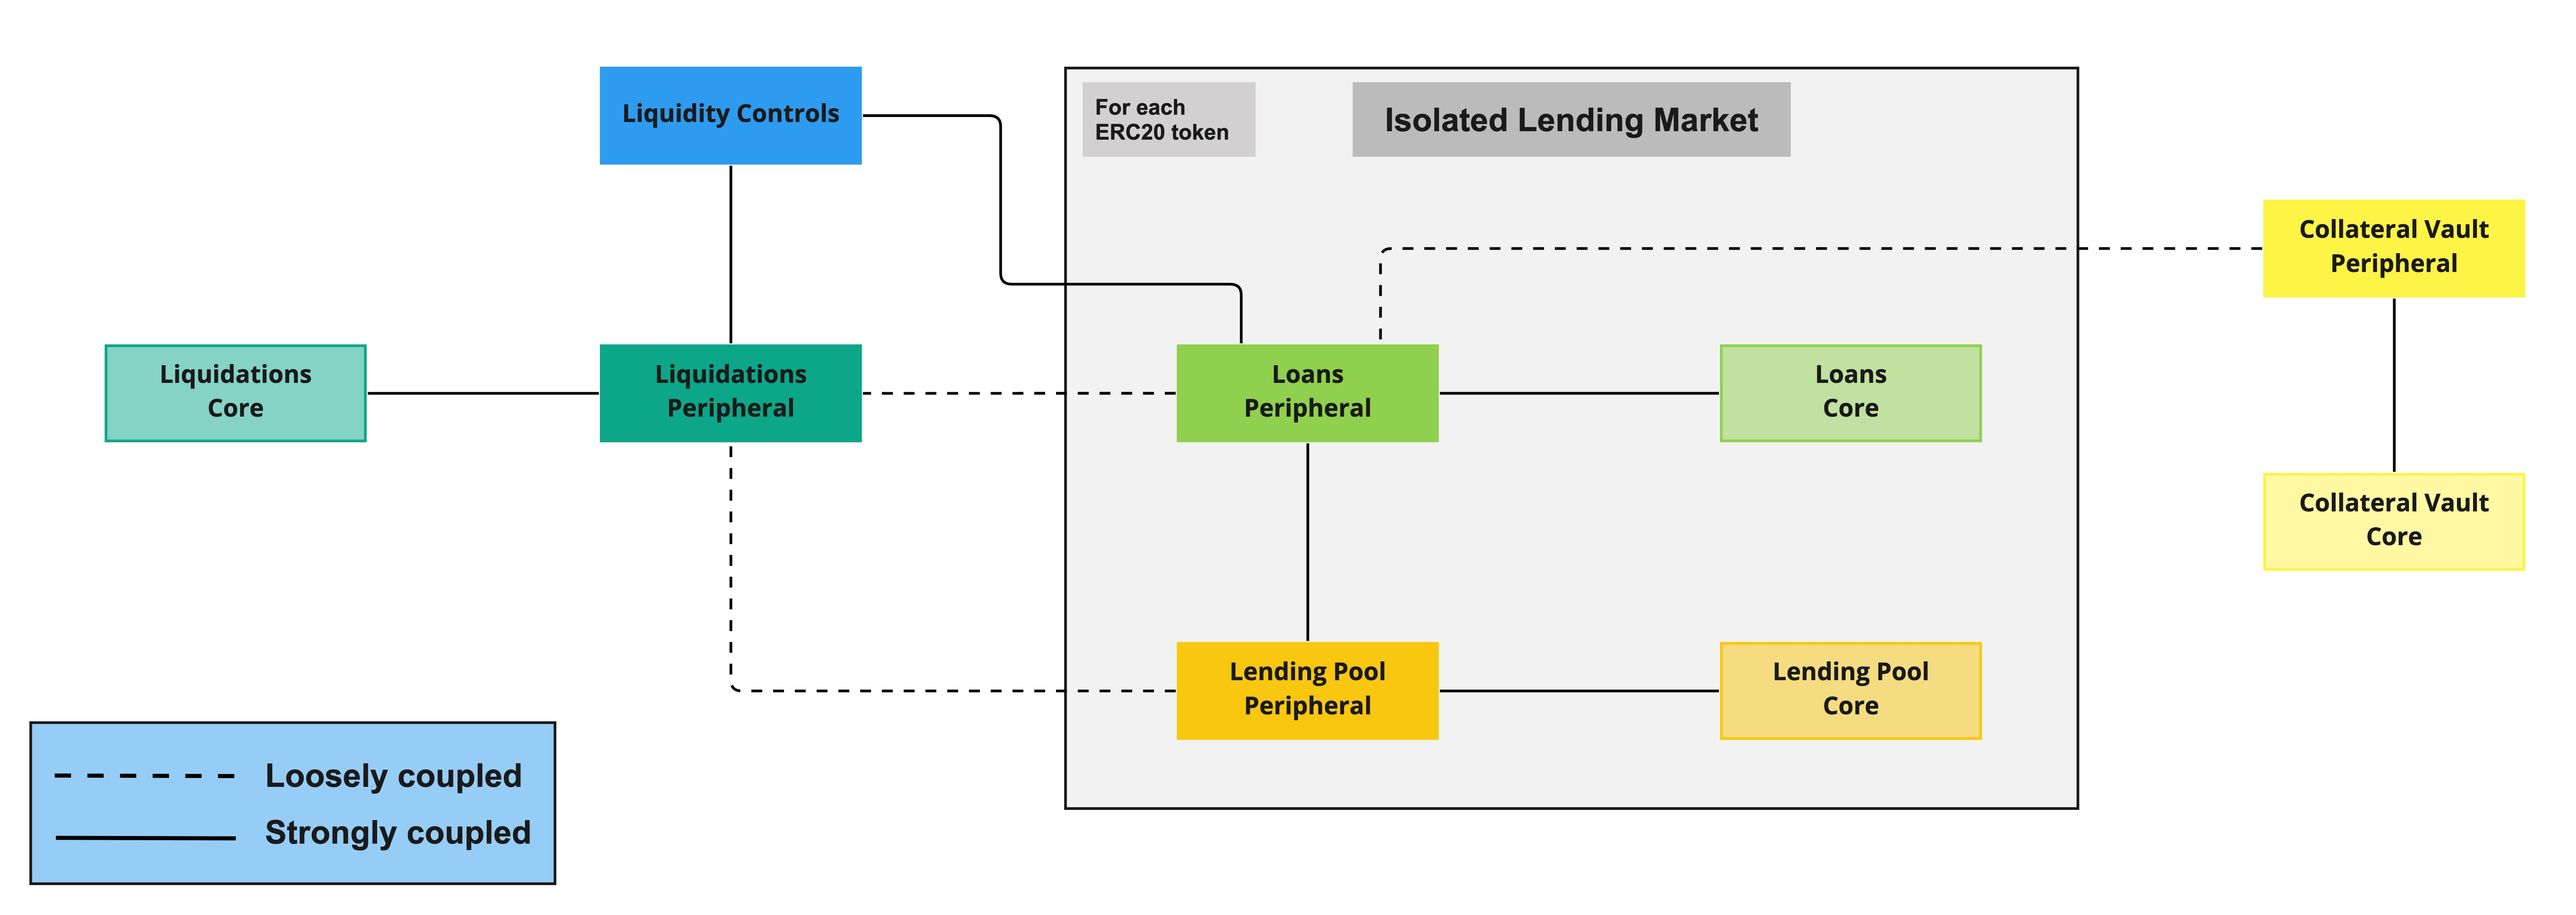
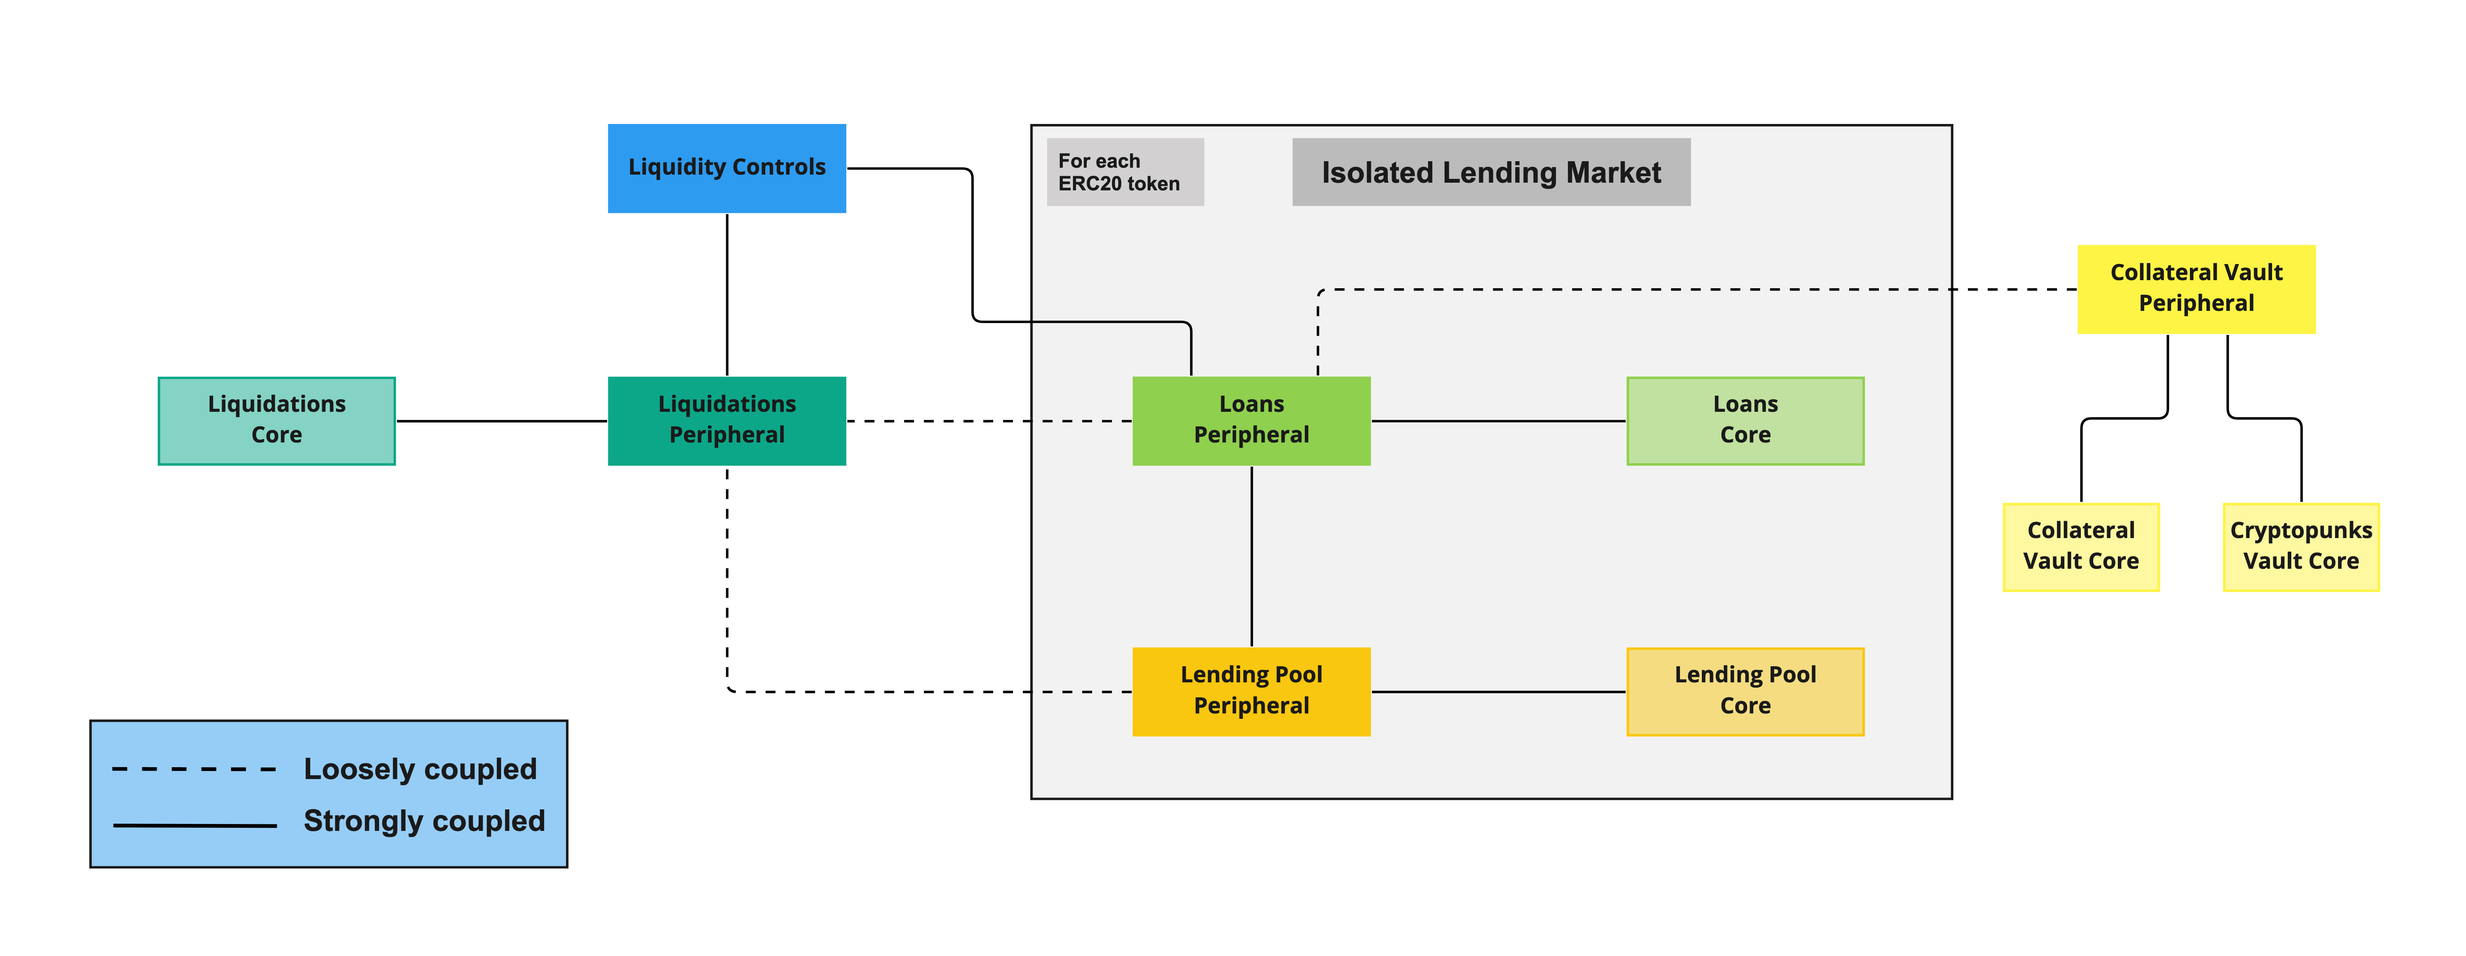
update readme and diagrams

diff --git a/docs/README.md b/docs/README.md
@@ -6,10 +6,11 @@ The protocol part of the Zharta offering comprises the smart contracts that gove
 
 These off-chain components provide input for the on-chain protocol as admin functionalities.
 
+
 # Overview
-| **Version** | **Language** | **Reference implementation** |
-|---|---|---|
-| V1 | Vyper 0.3.6 | https://gitlab.com/z106/protocol-v1 |
+| **Version** | **Language** | **Reference implementation**          |
+| ---         | ---          | ---                                   |
+| V1          | Vyper 0.3.6  | https://github.com/Zharta/protocol-v1 |
 
 Zharta V1 is a binary smart contract system comprised of many smart contracts. Each domain is comprised of two smart contracts, the Core and the Periphery.
 
@@ -19,16 +20,22 @@ The Periphery contracts define the protocol logic and are the gateway to interac
 
 The Periphery contracts are more easily changed since they hold no storage variables, they only hold protocol logic. Since the domain storage exists in the domain-specific Core contract, it is easier to deploy a new domain-specific Periphery contract and point it to the Core contract and vice-versa.
 
+This architecture is mentioned as [data separation](https://ethereum.org/en/developers/docs/smart-contracts/upgrading/#data-separation) in Ethereum Docs, and has the purpose of easying the smart contracts upgrades, allowing faster bug fixing (including security issues) and business logic iterations. Even if the long term is towards contracts immutability, is important at this stage to allow upgradability.
+
 Zharta V1 is divided into the following domains:
-* Loans
-* Lending Pool (LP)
-* Collateral Vault (CV)
-* Liquidations
-* Liquidity Controls (LC)
+
+| **Domain**              | **Logic**                 | **Data**                                   |
+| ---                     | ---                       | ---                                        |
+| Loans                   | Loans                     | LoansCore                                  |
+| Lending Pool (LP)       | LendingPoolPeripheral     | LendingPoolCore                            |
+| Collateral Vault (CV)   | CollateralVaultPeripheral | CollateralVaultCore / CryptoPunksVaultCore |
+| Liquidations            | LiquidationsPeripheral    | LiquidationsCore                           |
+| Liquidity Controls (LC) | LiquidityControls         |                                            |
+
 
 # General considerations
 
-Zharta will launch the V1 of the protocol with the following restrictions:
+Zharta launched the V1 of the protocol with the following restrictions:
 * maturity-based loans with at most 30 days
 * one single lending pool of WETH
 * no liquidations before a loan's maturity date
@@ -47,24 +54,25 @@ As for the CV, Liquidations and Liquidity Controls domains, they are not specifi
 
 The liquidity controls contract exists as the first and simple layer of automated risk management. The table below outlines the current implemented controls.
 
-| **Name** | **Target** | **Current Value** | **Description** |
-|---|---|---|---|
-| Loan-to-deposit ratio | Lenders | 70% | This represents the maximum utilisation of pools and when set to less than 100%, it allows for a buffer for withdrawals by lenders. |
-|  | Borrowers | 70% | This represents the maximum utilisation of pools and when set to less than 100%, it allows for less funds available for loans taken by borrowers. |
-| Limit per pool | Lenders | 15% | This represents the maximum share that a single lender can take from a lending pool. |
-|  | Borrowers | 15% | This represents the maximum share that a single borrower can represent from the total amount of borrowed funds. |
-| Diversification of collections | Lenders | _NA_ | _NA_ |
-|  | Borrowers | 50% | The represents the maximum share that a single collection can represent from the total amount of borrowed funds. |
-| Funds withdrawals | Lenders | 7 days lock period | This represents the lock period applicable for deposits in lending pools, i.e. for each new deposit, it can’t be withdrawn before the lock period finishes. If the lender already has an ongoing lock period, a new deposit won’t extend the lock period. |
-|  | Borrowers | _NA_ | _NA_ |
+| **Name**                       | **Target** | **Current Value**  | **Description**                                                                                                                                                                                                                                             |
+| ---                            | ---        | ---                | ---                                                                                                                                                                                                                                                         |
+| Loan-to-deposit ratio          | Lenders    | 70%                | This represents the maximum utilisation of pools and when set to less than 100%, it allows for a buffer for withdrawals by lenders.                                                                                                                         |
+|                                | Borrowers  | 70%                | This represents the maximum utilisation of pools and when set to less than 100%, it allows for less funds available for loans taken by borrowers.                                                                                                           |
+| Limit per pool                 | Lenders    | 15%                | This represents the maximum share that a single lender can take from a lending pool.                                                                                                                                                                        |
+|                                | Borrowers  | 15%                | This represents the maximum share that a single borrower can represent from the total amount of borrowed funds.                                                                                                                                             |
+| Diversification of collections | Lenders    | _NA_               | _NA_                                                                                                                                                                                                                                                        |
+|                                | Borrowers  | 50%                | The represents the maximum share that a single collection can represent from the total amount of borrowed funds.                                                                                                                                            |
+| Funds withdrawals              | Lenders    | 7 days lock period | This represents the lock period applicable for deposits in lending pools, i.e. for each new deposit, it can’t be withdrawn before the lock period finishes. If the lender already has an ongoing lock period, a new deposit won’t extend the lock period. |
+|                                | Borrowers  | _NA_               | _NA_                                                                                                                                                                                                                                                        |
 
 ## Loan creation flow - a mix between on-chain and off-chain processes
 
 The loan creation flow has two steps:
-1. The loan is created on-chain by the borrower
+1. Zharta's API pre-validation
     - the borrower should call Zharta's APIs beforehand to get the conditions for the loan given the NFTs chosen to be used as collateral
+    - the Zharta's APIs also validate the loan request and sign a ERC712 message
     - Zharta's portal simplifies this for now
-2. After the loan is created, Zharta's off-chain indexer reacts to it and either validates or invalidated the loan, depending on the conditions that were set
+2. The loan is created on-chain by the borrower, using the signed message which is validated by the Loans smart contract
 
 ![Loan Creation Flow](loan_creation_flow.jpg)
 
@@ -75,10 +83,6 @@ In the diagrams below, the coloured boxes (i.e. boxes that don’t have a white 
 ## Loan creation
 
 ![Loan Creation](loan_creation.jpg)
-
-## Loan validation/invalidation
-
-![Loan Validation/Invalidation](loan_validation_invalidation.jpg)
 
 ## Loan payment
 
